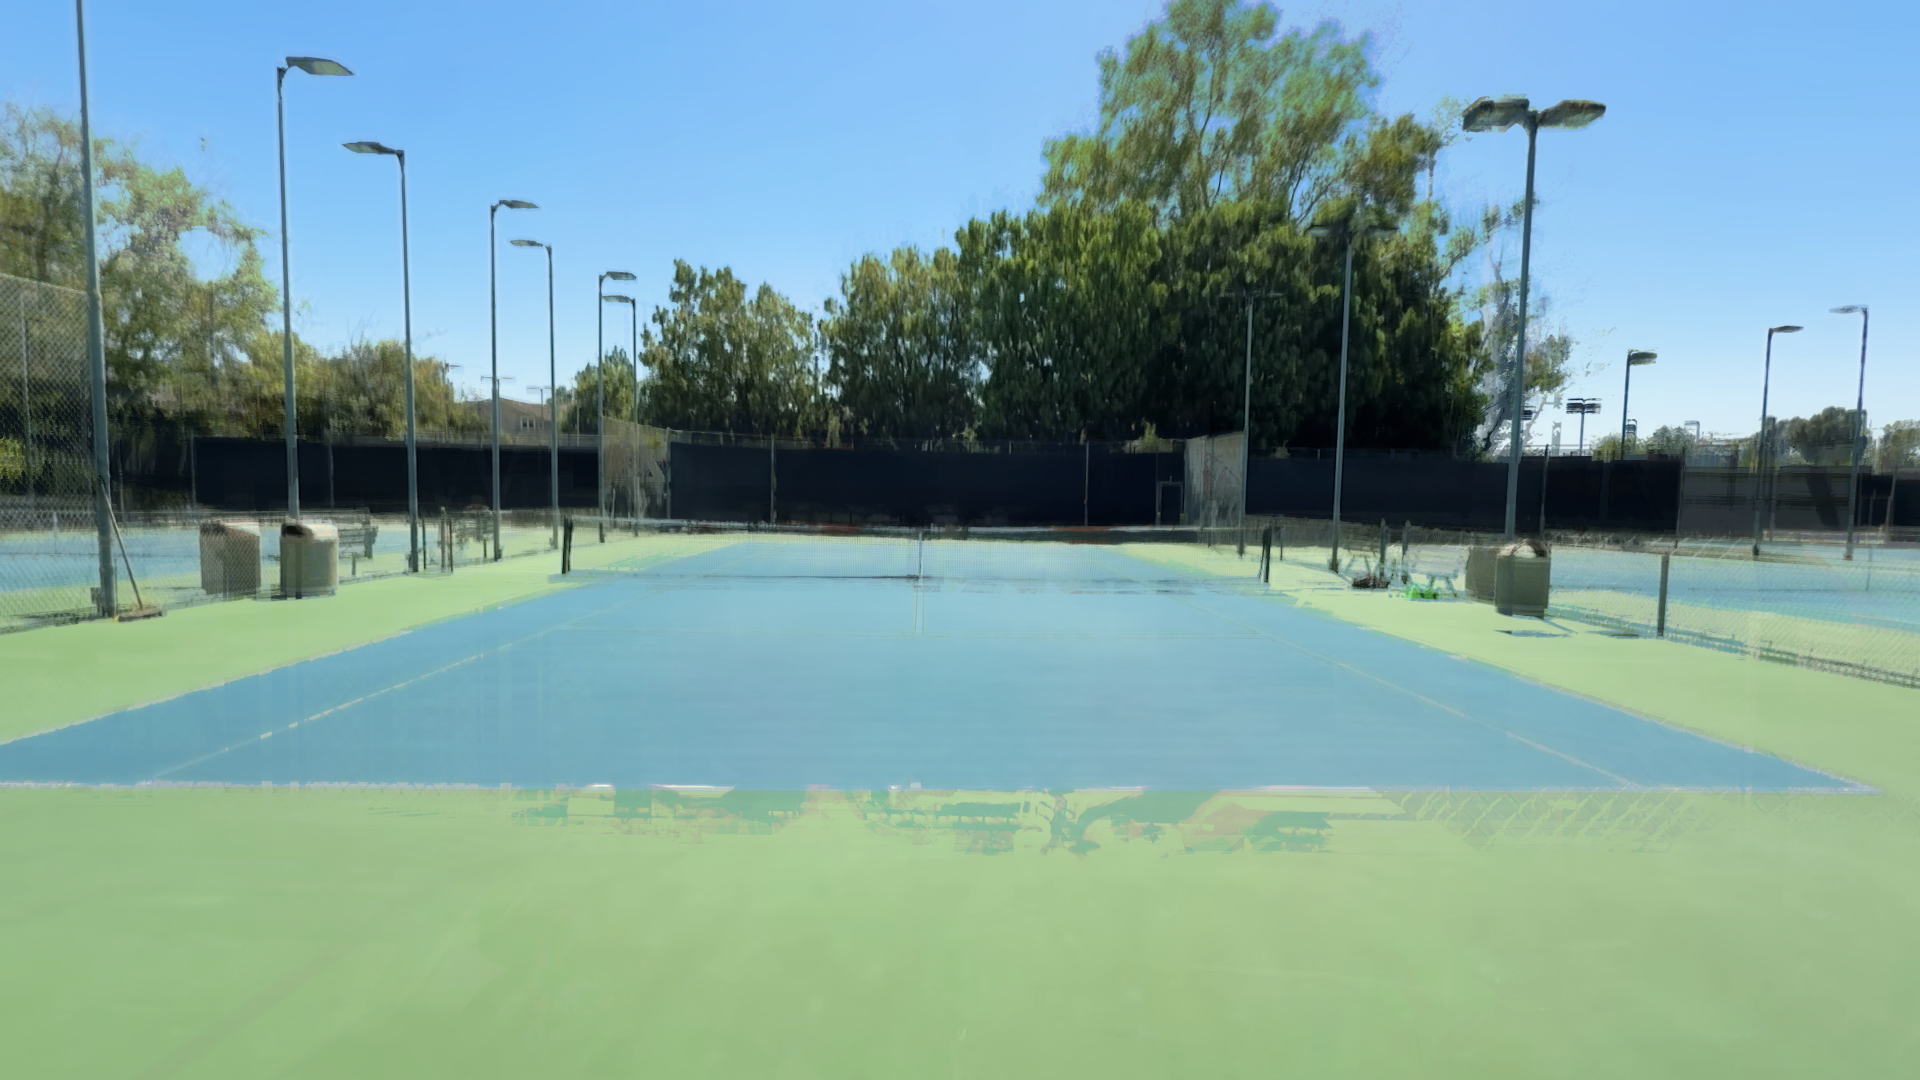
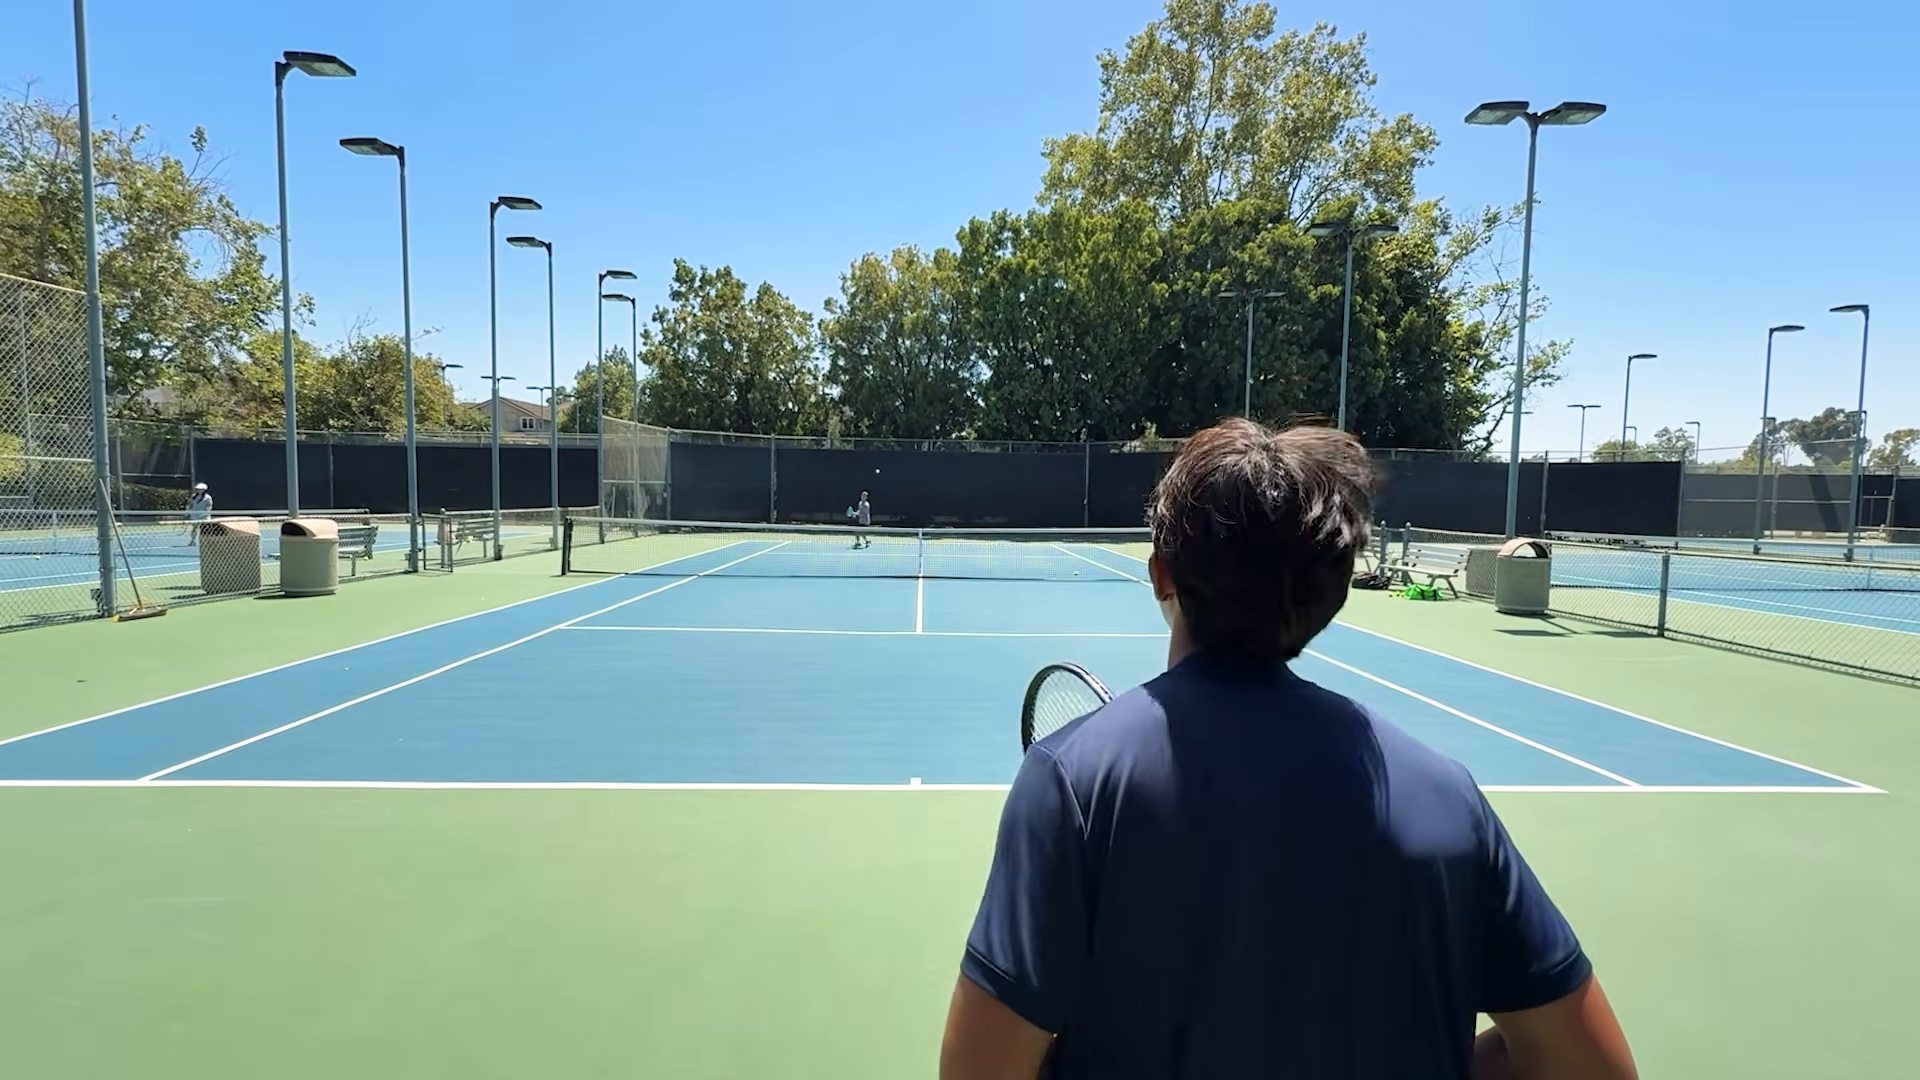
Do not hand the labeller a smeared plate when the camera moves
Reported as "wtf is this UI". It was not the UI - it was the image. A median
clean plate assumes the CAMERA held still; the three HoHxFSX_gLk segments drift,
so medianing 60 s of them smeared the court into a ghost with no legible line
anywhere, and the tool then asked for an overlay to be snapped onto the blur.
The other three clips plated fine, which is why it looked like a UI change
rather than a bad frame.

build_plate now compares the plate's Laplacian variance against a real frame
from the same span and keeps the raw frame when the plate is less than half as
sharp. A player standing on a line is a far smaller problem than no line at all,
and the snap can be nudged by hand. It says which one it used per clip.

Caught by rendering the plates rather than by reading the timings - the same
check that caught the segment finder and the audit.

diff --git a/tools/calibrate_queue.py b/tools/calibrate_queue.py
@@ -161,8 +161,25 @@ def build_plate(video: Path, out_png: Path, *, start_frac=0.30, span_s=60.0, n=8
     if len(ims) < 20:
         return False
     out_png.parent.mkdir(parents=True, exist_ok=True)
-    cv2.imwrite(str(out_png), np.median(np.stack(ims), 0).astype(np.uint8))
-    return True
+
+    plate = np.median(np.stack(ims), 0).astype(np.uint8)
+    # A median plate is only clean if the CAMERA held still. On a clip that
+    # drifts or zooms, medianing 60 s of it smears the court into a ghost and
+    # you are asked to snap an overlay onto a blur — which is exactly what it
+    # did to the three HoHxFSX_gLk segments. Sharpness says which case this is:
+    # compare the plate against a real frame from the same span.
+    def sharp(im):
+        return float(cv2.Laplacian(cv2.cvtColor(im, cv2.COLOR_BGR2GRAY),
+                                   cv2.CV_32F).var())
+
+    raw = ims[len(ims) // 2]
+    if sharp(plate) < 0.5 * sharp(raw):
+        # Keep the raw frame. A player standing on a line is a smaller problem
+        # than no legible line anywhere, and the snap can be nudged by hand.
+        cv2.imwrite(str(out_png), raw)
+        return "raw"
+    cv2.imwrite(str(out_png), plate)
+    return "plate"
 
 
 def wait_until_free(port: int, timeout_s: float = 20.0) -> bool:
@@ -308,8 +325,10 @@ def main() -> None:
         for i, (n, v) in enumerate(missing, 1):
             t0 = time.time()
             ok = build_plate(v, plate_path(n))
-            print(f"  [{i}/{len(missing)}] {n:<18} "
-                  f"{'ready' if ok else 'FAILED'} ({time.time() - t0:.0f}s)")
+            how = {"plate": "clean plate", "raw": "single frame "
+                   "(camera moves, a median would smear it)"}.get(ok, "FAILED")
+            print(f"  [{i}/{len(missing)}] {n:<18} {how} "
+                  f"({time.time() - t0:.0f}s)")
     todo = [(n, v, p) for n, v, p in todo if plate_path(n).is_file()]
     if not todo:
         raise SystemExit("no clip could be prepared")
